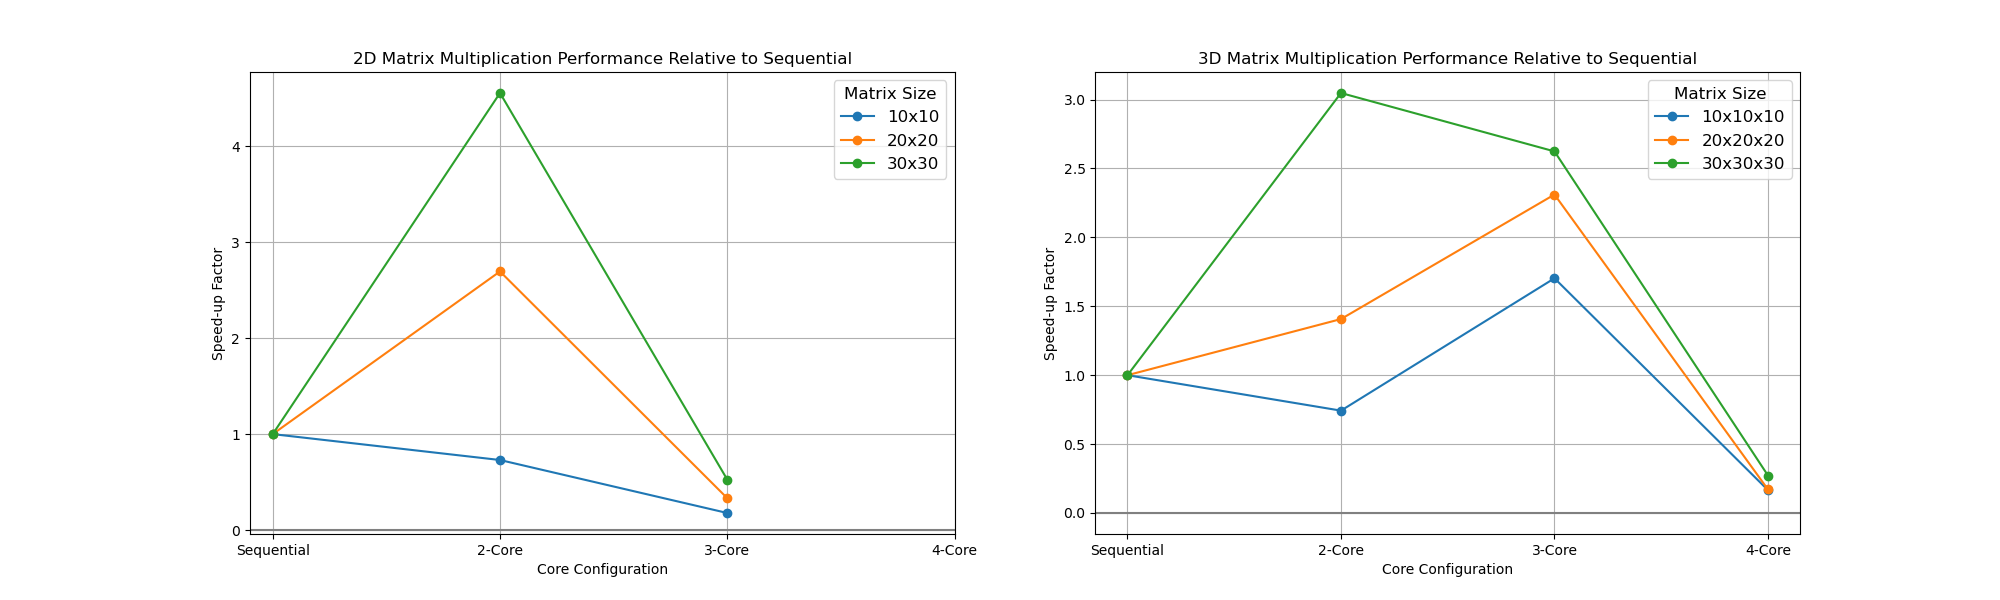
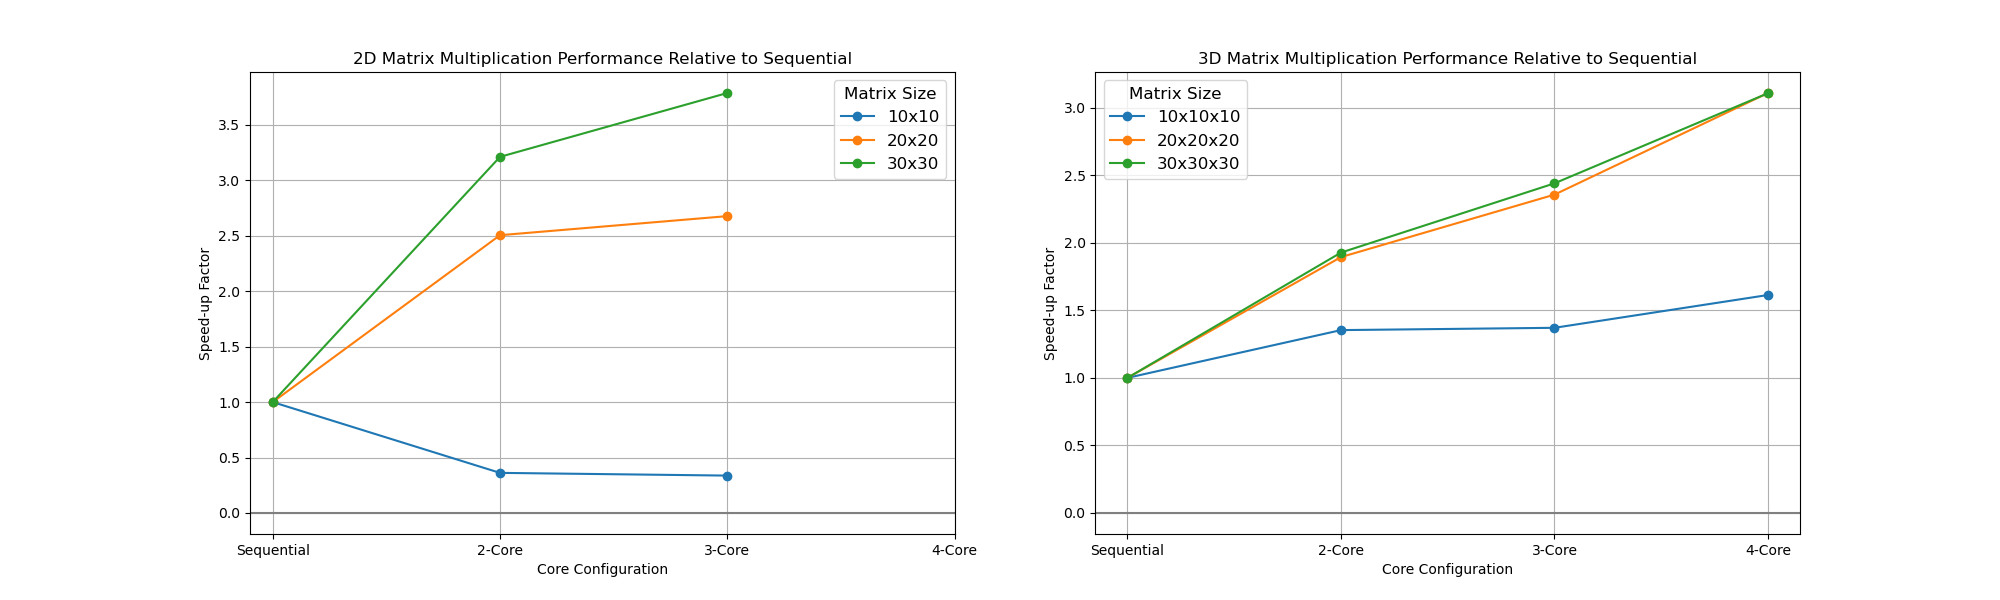
Added proper threading

diff --git a/Rust/src/matrix_3_d.rs b/Rust/src/matrix_3_d.rs
@@ -26,101 +26,6 @@ impl Matrix3D {
         Matrix3D { data }
     }
 
-    // Performs parallel multiplication of corresponding 2D matrices from two 3D matrices
-    pub fn multiply_2_core(&self, other: &Matrix3D) -> Matrix3D {
-        assert_eq!(self.data.len(), other.data.len(), "The number of layers must be equal.");
-
-        let result_data: Vec<Vec<Vec<u32>>> = self.data.par_iter().zip(other.data.par_iter())
-            .map(|(a_layer, b_layer)| {
-
-                // Transposing each 2D matrix in `other` for efficient dot product calculation
-                let b_transposed: Vec<Vec<u32>> = (0..b_layer[0].len())
-                    .map(|i| b_layer.iter().map(|row| row[i]).collect())
-                    .collect();
-
-                // Performing 2D matrix multiplication for each layer
-                a_layer.iter()
-                    .map(|a_row| {
-                        b_transposed.iter()
-                            .map(|b_row| {
-                                a_row.iter()
-                                    .zip(b_row)
-                                    .map(|(a_val, b_val)| a_val * b_val)
-                                    .sum()
-                            })
-                            .collect()
-                    })
-                    .collect()
-            })
-            .collect();
-
-        Matrix3D { data: result_data }
-    }
-
-    pub fn multiply_3_core(&self, other: &Matrix3D) -> Matrix3D {
-        assert_eq!(self.data.len(), other.data.len(), "The number of layers must be equal.");
-    
-        let chunk_size = (self.data.len() + 2) / 3; // Divide layers into 3 chunks, rounding up
-    
-        let result_data: Vec<Vec<Vec<u32>>> = self.data
-
-            .par_chunks(chunk_size) // Splitting the layers into roughly 3 chunks
-
-            .flat_map(|chunk| {
-                chunk.iter().zip(other.data.iter()).map(|(a_layer, b_layer)| {
-
-                    // Transposing each 2D matrix in `other` for efficient dot product calculation
-                    let b_transposed: Vec<Vec<u32>> = (0..b_layer[0].len())
-                        .map(|i| b_layer.iter().map(|row| row[i]).collect())
-                        .collect();
-    
-                    // Performing 2D matrix multiplication for each layer
-                    a_layer.iter().map(|a_row| {
-                        b_transposed.iter().map(|b_row| {
-                            a_row.iter().zip(b_row).map(|(a_val, b_val)| a_val * b_val).sum()
-                        }).collect()
-                    }).collect()
-                }).collect::<Vec<Vec<Vec<u32>>>>()
-            })
-            .collect();
-    
-        Matrix3D { data: result_data }
-    }
-
-    // Performs parallel multiplication of corresponding 2D matrices from two 3D matrices with enhanced parallelism
-    pub fn multiply_4_core(&self, other: &Matrix3D) -> Matrix3D {
-        assert_eq!(self.data.len(), other.data.len(), "The number of layers must be equal.");
-
-        let result_data: Vec<Vec<Vec<u32>>> = self.data.par_iter().zip(other.data.par_iter())
-            .map(|(a_layer, b_layer)| {
-
-                // Transposing each 2D matrix in `other` for efficient dot product calculation
-                let b_transposed: Vec<Vec<u32>> = (0..b_layer[0].len())
-                    .map(|i| b_layer.iter().map(|row| row[i]).collect())
-                    .collect();
-
-                // Performing 2D matrix multiplication for each layer in parallel
-                a_layer.par_iter() 
-                    .map(|a_row| {
-
-                        b_transposed.par_iter() 
-                            .map(|b_row| {
-
-                                // Each element of the resulting row is computed in parallel
-                                a_row.par_iter()  // par_iter() for parallel element-wise multiplication and sum
-                                    .zip(b_row)
-                                    .map(|(a_val, b_val)| a_val * b_val)
-                                    .sum::<u32>()
-                            })
-                            .collect::<Vec<u32>>()
-                    })
-                    .collect::<Vec<Vec<u32>>>()
-            })
-            .collect();
-
-        Matrix3D { data: result_data }
-    }
-
     // Performs sequential (non-parallel) multiplication of corresponding 2D matrices from two 3D matrices
     pub fn multiply_sequential(&self, other: &Matrix3D) -> Matrix3D {
         assert_eq!(self.data.len(), other.data.len(), "The number of layers must be equal.");
@@ -151,6 +56,40 @@ impl Matrix3D {
 
         Matrix3D { data: result_data }
     }
-
+        // A generic method for parallel matrix multiplication with a specified number of cores.
+        pub fn multiply_parallel(&self, other: &Matrix3D, num_threads: usize) -> Matrix3D {
+            assert_eq!(self.data.len(), other.data.len(), "The number of layers must be equal.");
     
-}
+            // Create a thread pool with the specified number of threads.
+            let pool = rayon::ThreadPoolBuilder::new().num_threads(num_threads).build().unwrap();
+    
+            // Use the thread pool to perform the parallel multiplication.
+            pool.install(|| {
+                let result_data: Vec<Vec<Vec<u32>>> = self.data.par_iter().zip(other.data.par_iter())
+                    .map(|(a_layer, b_layer)| {
+                        let b_transposed: Vec<Vec<u32>> = (0..b_layer[0].len())
+                            .map(|i| b_layer.iter().map(|row| row[i]).collect())
+                            .collect();
+                        
+                        // Performing 2D matrix multiplication for each layer.
+                        a_layer.iter()
+                            .map(|a_row| {
+                                b_transposed.iter()
+                                    .map(|b_row| {
+                                        a_row.iter()
+                                            .zip(b_row)
+                                            .map(|(a_val, b_val)| a_val * b_val)
+                                            .sum()
+                                    })
+                                    .collect()
+                            })
+                            .collect()
+                    })
+                    .collect(); // Collects into Vec<Vec<Vec<u32>>>
+            
+                // Construct a Matrix3D from the result_data
+                Matrix3D { data: result_data }
+            })
+        }
+    }
+

diff --git a/Rust/src/matrix_2_d.rs b/Rust/src/matrix_2_d.rs
@@ -3,6 +3,7 @@
 
 use rand::{distributions::Uniform, Rng};
 use rayon::prelude::*;
+use rayon::ThreadPoolBuilder;
 
 // Define a public `Matrix` struct that will hold the data for a 2D matrix.
 // The matrix data is stored as a vector of vectors of unsigned 32-bit integers (`Vec<Vec<u32>>`).
@@ -58,67 +59,34 @@ impl Matrix {
         Matrix { data: result_data }
     }
 
-    // A public method for performing parallel matrix multiplication.
-    pub fn multiply_2_core(&self, other: &Matrix) -> Matrix {
+    pub fn multiply_parallel(&self, other: &Matrix, num_cores: usize) -> Matrix {
+        // Create a thread pool with the specified number of threads.
+        let pool = ThreadPoolBuilder::new().num_threads(num_cores).build().unwrap();
 
-        // Transpose the second matrix to optimize access patterns in the multiplication.
-        let b_transposed: Vec<Vec<u32>> = (0..other.data[0].len())
-            .map(|i| other.data.iter().map(|row| row[i]).collect())
-            .collect();
+        pool.install(|| {
+            // Transpose the second matrix to optimize access patterns in the multiplication.
+            let b_transposed: Vec<Vec<u32>> = (0..other.data[0].len())
+                .map(|i| other.data.iter().map(|row| row[i]).collect())
+                .collect();
 
-        // Perform the matrix multiplication in parallel using Rayon's parallel iterators.
-        // `.par_iter()` is used to iterate over rows of the first matrix in parallel.
-        let result_data: Vec<Vec<u32>> = self.data.par_iter()
-            .map(|a_row| {
+            // Perform the matrix multiplication in parallel.
+            let result_data: Vec<Vec<u32>> = self.data.par_iter()
+                .map(|a_row| {
+                    b_transposed
+                        .iter()
+                        .map(|b_row| {
+                            a_row
+                                .iter()
+                                .zip(b_row)
+                                .map(|(a_val, b_val)| a_val * b_val)
+                                .sum()
+                        })
+                        .collect()
+                })
+                .collect();
 
-                // For each row in the first matrix, iterate over each row in the transposed second matrix.
-                b_transposed
-                    .iter()
-                    .map(|b_row| {
-
-                        // Calculate the dot product of the row from the first matrix and the row from the transposed second matrix.
-                        a_row
-                            .iter()
-                            .zip(b_row)
-                            .map(|(a_val, b_val)| a_val * b_val)
-                            .sum()
-                    })
-                    .collect()
-            })
-            .collect();
-
-        // Return a new `Matrix` containing the result of the parallel multiplication.
-        Matrix { data: result_data }
+            // Return a new `Matrix` containing the result.
+            Matrix { data: result_data }
+        })
     }
-
-    pub fn multiply_3_core(&self, other: &Matrix) -> Matrix {
-
-        // Transpose the second matrix to optimize access patterns in the multiplication.
-        let b_transposed: Vec<Vec<u32>> = (0..other.data[0].len())
-            .map(|i| other.data.iter().map(|row| row[i]).collect())
-            .collect();
-    
-        // Perform the matrix multiplication fully in parallel using Rayon's parallel iterators.
-        // `.par_iter()` is used to iterate over rows of the first matrix in parallel.
-        let result_data: Vec<Vec<u32>> = self.data.par_iter()
-            .map(|a_row| {
-
-                // Parallelize the iteration over each row in the transposed second matrix as well.
-                b_transposed.par_iter()
-                    .map(|b_row| {
-
-                        // The dot product calculation is performed in parallel for each element of the resulting row.
-                        a_row.par_iter()
-                            .zip(b_row)
-                            .map(|(a_val, b_val)| a_val * b_val)
-                            .sum()
-                    })
-                    .collect()
-            })
-            .collect();
-    
-        // Return a new `Matrix` containing the result of the fully parallel multiplication.
-        Matrix { data: result_data }
-    }
-    
 }

diff --git a/Rust/src/main.rs b/Rust/src/main.rs
@@ -9,6 +9,7 @@ use std::io::{Write, BufWriter};
 use std::time::{Duration, Instant};
 
 fn main() {
+    
     let dimensions = [10, 20, 30];
     let runs = 100;
 
@@ -31,35 +32,37 @@ fn main() {
 
     println!("Write to csv success!");
 }
-
 fn test_matrix_multiplication_2d(dimensions: usize, runs: usize, writer: &mut BufWriter<File>) {
     let mut total_duration_sequential = Duration::new(0, 0);
-    let mut total_duration_parallel = Duration::new(0, 0);
-    let mut total_duration_over_parallel = Duration::new(0, 0);
+    let mut total_duration_2_core = Duration::new(0, 0);
+    let mut total_duration_3_core = Duration::new(0, 0);
 
     for _ in 0..runs {
         let matrix_a = Matrix::new_random(dimensions, dimensions);
         let matrix_b = Matrix::new_random(dimensions, dimensions);
 
+        // Sequential multiplication
         let start = Instant::now();
         let _ = matrix_a.multiply_sequential(&matrix_b);
         total_duration_sequential += start.elapsed();
 
+        // Parallel multiplication with 2 cores
         let start = Instant::now();
-        let _ = matrix_a.multiply_2_core(&matrix_b);
-        total_duration_parallel += start.elapsed();
+        let _ = matrix_a.multiply_parallel(&matrix_b, 2); // Using 2 cores
+        total_duration_2_core += start.elapsed();
 
+        // Parallel multiplication with 3 cores
         let start = Instant::now();
-        let _ = matrix_a.multiply_3_core(&matrix_b);
-        total_duration_over_parallel += start.elapsed();
+        let _ = matrix_a.multiply_parallel(&matrix_b, 3); // Using 3 cores
+        total_duration_3_core += start.elapsed();
     }
 
     let average_duration_sequential = total_duration_sequential / runs as u32;
-    let average_duration_parallel = total_duration_parallel / runs as u32;
-    let average_duration_over_parallel = total_duration_over_parallel / runs as u32;
+    let average_duration_2_core = total_duration_2_core / runs as u32;
+    let average_duration_3_core = total_duration_3_core / runs as u32;
 
     // Print in CSV format
-    writeln!(writer, "{},2D,{},{},{}", dimensions, average_duration_sequential.as_nanos(), average_duration_parallel.as_nanos(), average_duration_over_parallel.as_nanos()).expect("Could not write 2D data");
+    writeln!(writer, "{},2D,{},{},{}", dimensions, average_duration_sequential.as_nanos(), average_duration_2_core.as_nanos(), average_duration_3_core.as_nanos()).expect("Could not write 2D data");
 }
 
 fn test_matrix_multiplication_3d(dimensions: usize, runs: usize, writer: &mut BufWriter<File>) {
@@ -72,20 +75,24 @@ fn test_matrix_multiplication_3d(dimensions: usize, runs: usize, writer: &mut Bu
         let matrix_3d_a = Matrix3D::new_random(dimensions, dimensions, dimensions);
         let matrix_3d_b = Matrix3D::new_random(dimensions, dimensions, dimensions);
 
+        // Sequential multiplication
         let start = Instant::now();
         let _ = matrix_3d_a.multiply_sequential(&matrix_3d_b);
         total_duration_sequential += start.elapsed();
 
+        // Parallel multiplication with 2 cores
         let start = Instant::now();
-        let _ = matrix_3d_a.multiply_2_core(&matrix_3d_b);
+        let _ = matrix_3d_a.multiply_parallel(&matrix_3d_b, 2);
         total_duration_2_core += start.elapsed();
 
+        // Parallel multiplication with 3 cores
         let start = Instant::now();
-        let _ = matrix_3d_a.multiply_3_core(&matrix_3d_b);
+        let _ = matrix_3d_a.multiply_parallel(&matrix_3d_b, 3);
         total_duration_3_core += start.elapsed();
 
+        // Parallel multiplication with 4 cores
         let start = Instant::now();
-        let _ = matrix_3d_a.multiply_4_core(&matrix_3d_b);
+        let _ = matrix_3d_a.multiply_parallel(&matrix_3d_b, 4);
         total_duration_4_core += start.elapsed();
     }
 
